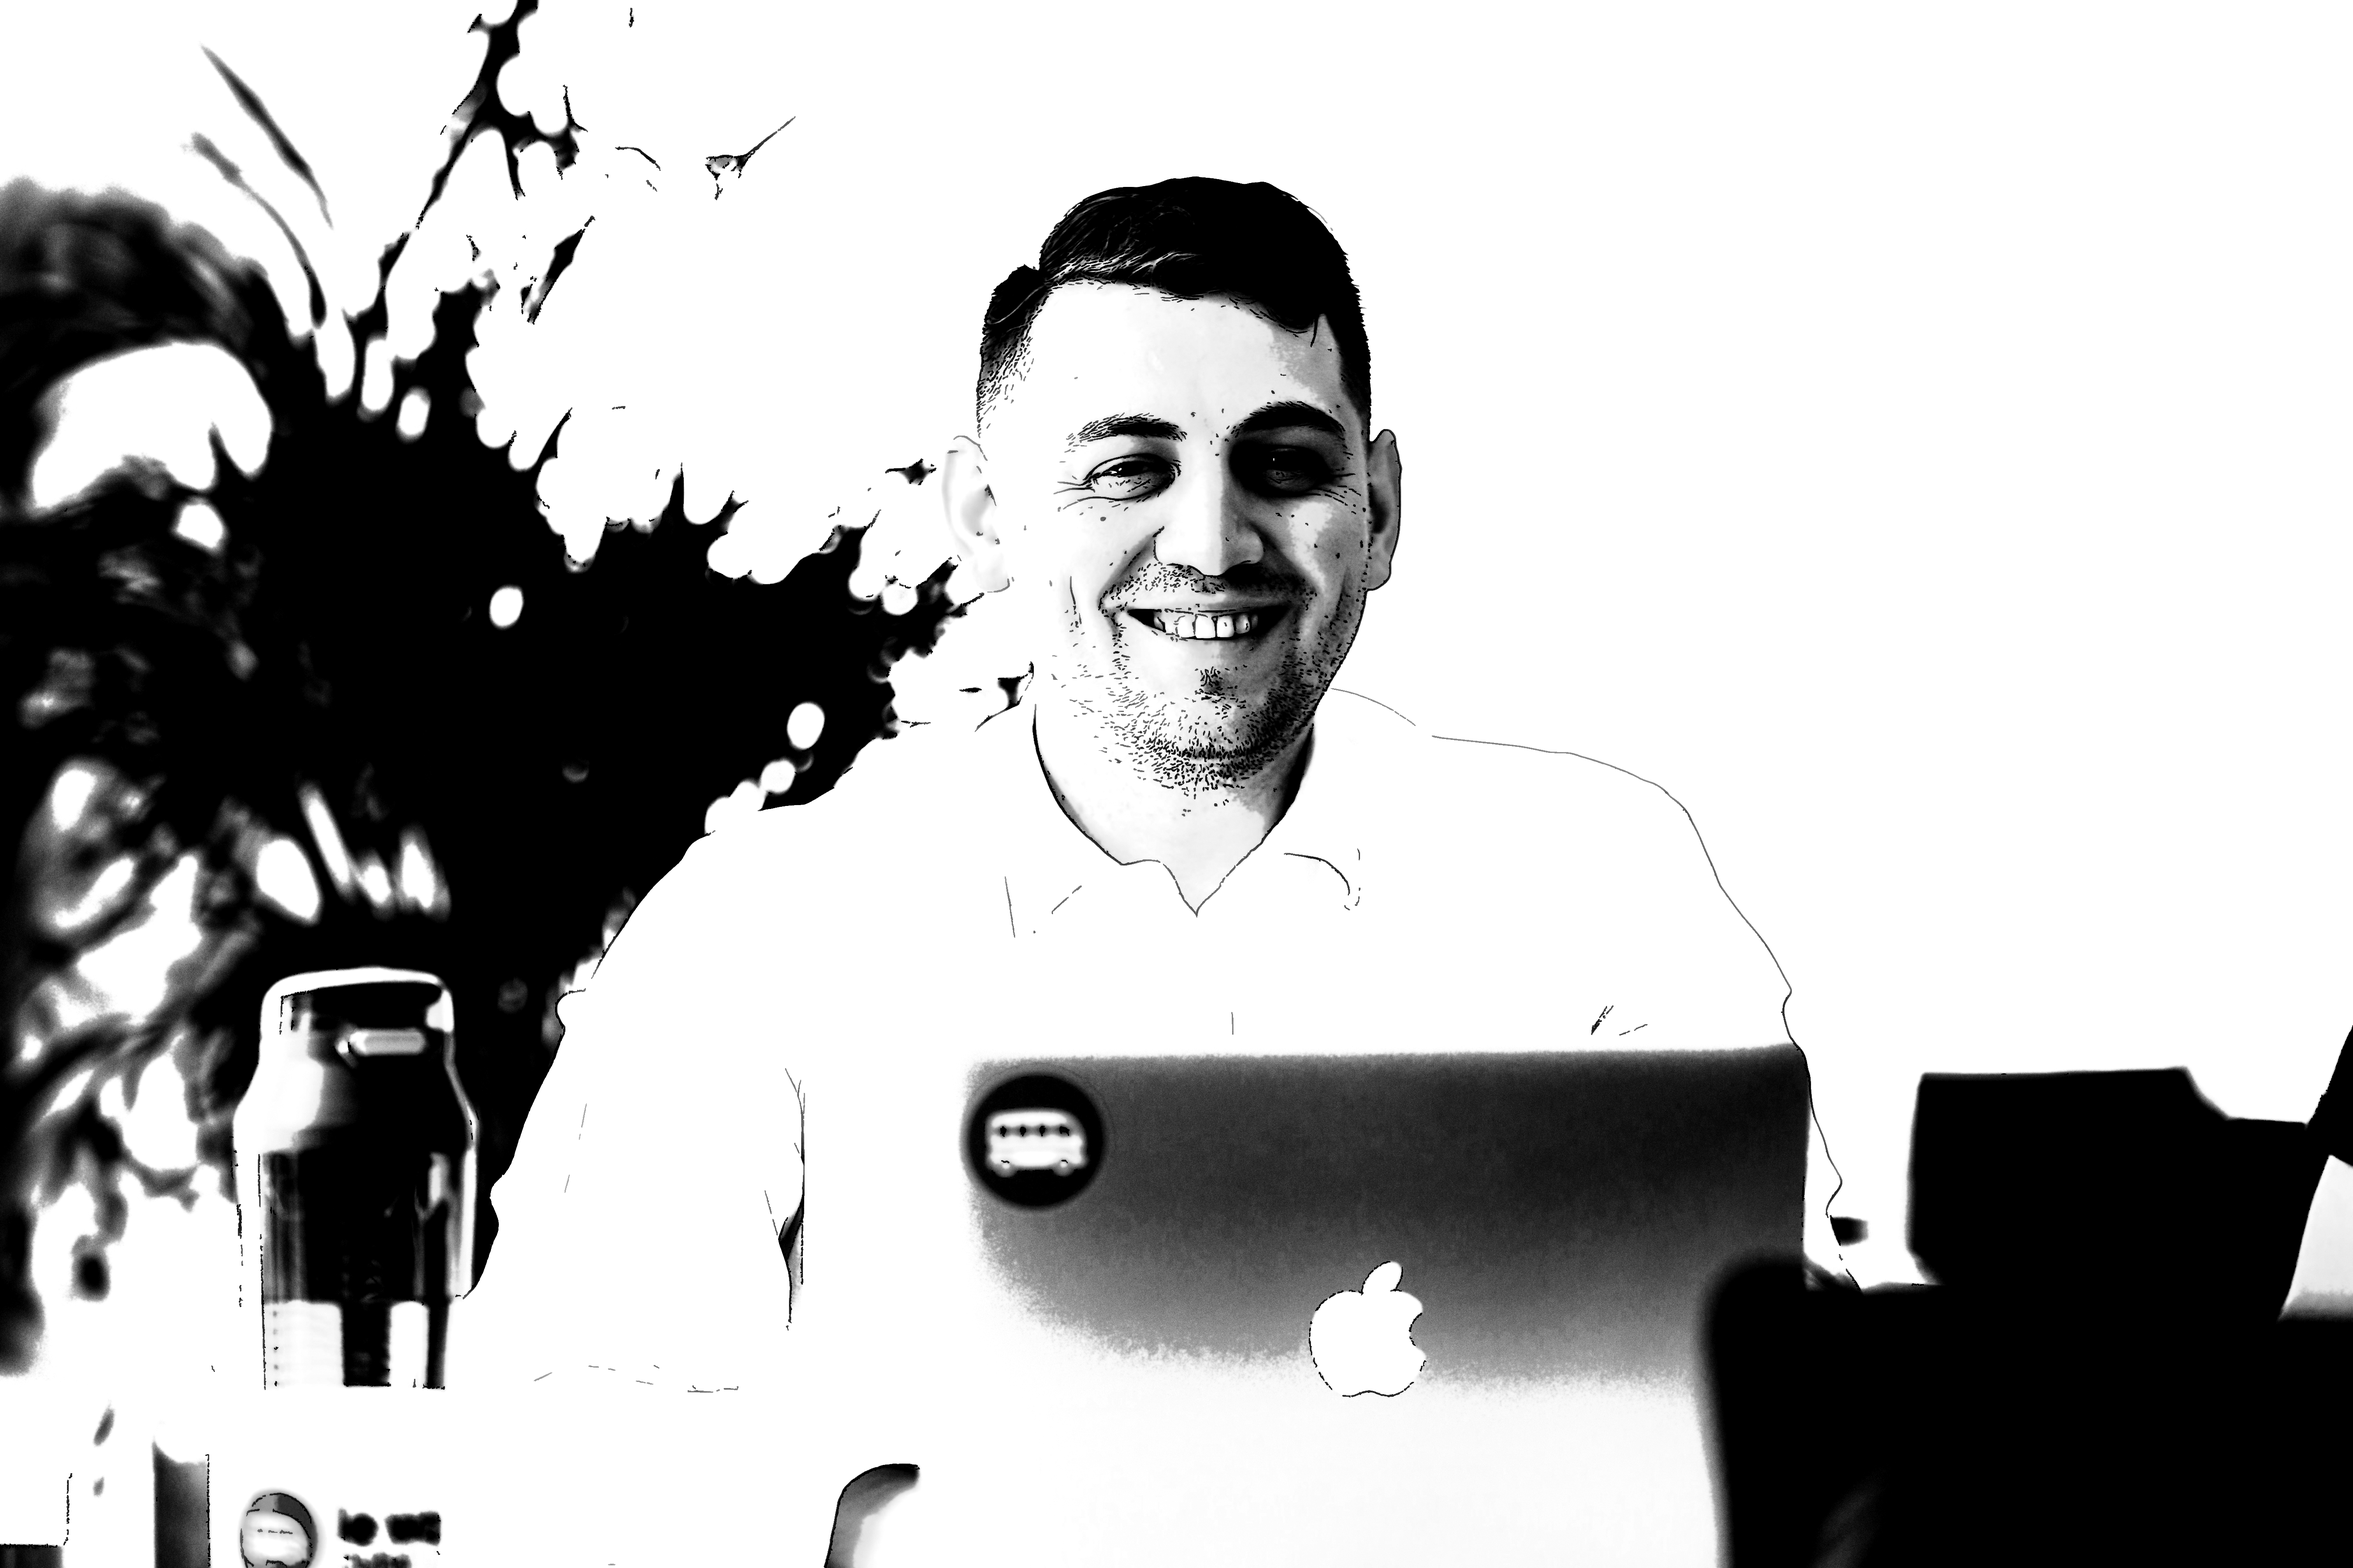
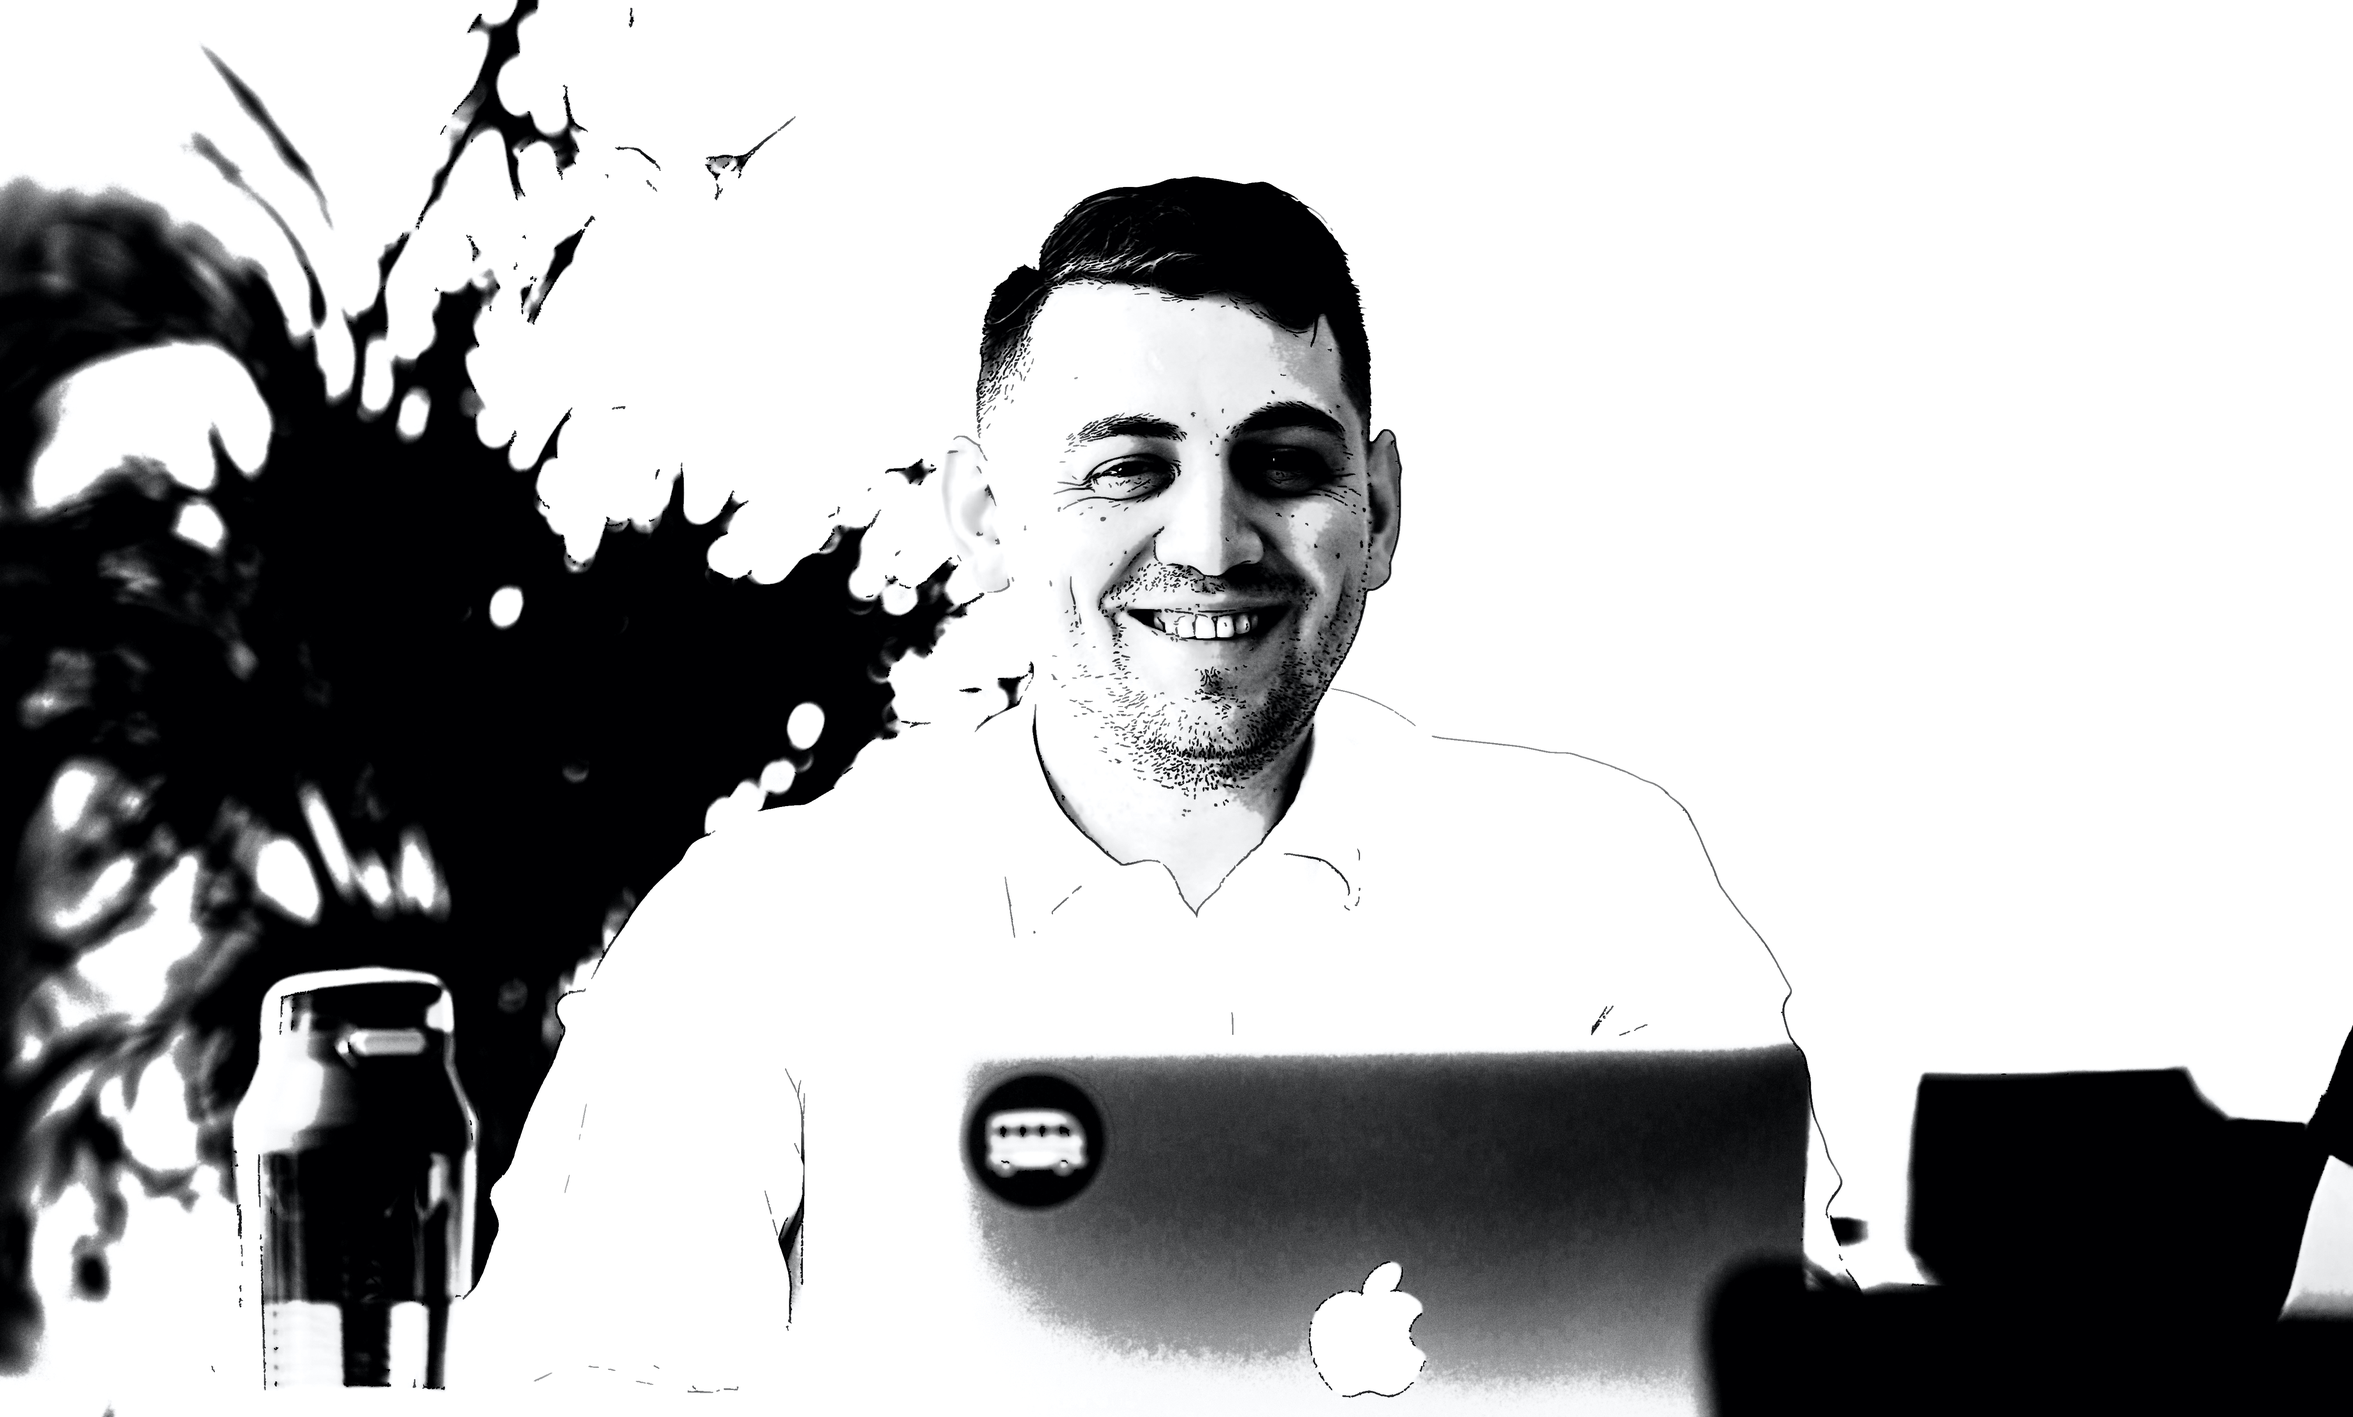
resized hero section background image and adjusted height of hero-content @media

diff --git a/src/components/HeroSection.css b/src/components/HeroSection.css
@@ -1,23 +1,31 @@
 
 
 .hero-container {
-  background: url('../images/dots.svg') center center/cover no-repeat;
+  /*background: url('../images/alex-sketcher.jpeg') center center/cover no-repeat;*/
+  background-image:
+    linear-gradient(to bottom, rgb(122 154 151 / 52%), rgb(131 134 134 / 50%)),
+    url('../images/alex-sketcher.jpeg');
+  background-size: contain, cover;
+  background-position: center;
+  background-repeat: no-repeat;
   height: 100vh;
   width: 100%;
   display: flex;
   flex-direction: column;
   justify-content: center;
-  align-items: center;
   box-shadow: inset 0 0 0 1700px rgb(27 94 101 / 42%);
   object-fit: contain;
   word-spacing: 0.2rem;
 }
 
+
 .hero-container > h1 {
   color: #fff;
   font-size: 65px;
-  margin-top: -100px;
+  margin-top: 30vh;
   text-shadow: 2px 2px #15131496;
+  margin-left: 7%;
+
 }
 
 .hero-container > p {
@@ -27,15 +35,17 @@
   font-family: 'Trebuchet MS', 'Lucida Sans Unicode', 'Lucida Grande',
     'Lucida Sans', Arial, sans-serif;
   text-shadow: 2px 2px #15131496;
+  margin-left: 11%;
 }
 
 .hero-btns {
   margin-top: 32px;
+  margin-left: 12%;
 }
 
 .hero-btns a {
-  color: rgb(14 22 23);
-  text-shadow: 1px 1px #c8ecec;
+  color: var(--primary);
+  text-shadow: 1px 1px #0a282b;
   cursor: pointer;
   text-decoration: none;
 }
@@ -49,9 +59,9 @@
 }
 
 .btn:hover > .fa-arrow-alt-circle-down {
-  transform: translateY(10%);
-  transition: all 0.4s ease-in-out;
-  opacity: 0.8;
+  transform: rotateZ(180deg) rotateX(180deg);
+  transition: all 0.4s ease-in;
+  text-shadow: none;
 }
 
 
@@ -65,7 +75,7 @@
 @media screen and (max-width: 768px) {
   .hero-container > h1 {
     font-size: 50px;
-    margin-top: -100px;
+    margin-top: 40vh;
   }
 
   .hero-container > p {

diff --git a/src/components/HeroSection.js b/src/components/HeroSection.js
@@ -9,24 +9,24 @@ import myPdf from '../images/CV-ILIESI_ALEXANDRU.pdf';
 function HeroSection() {
   return (
     <div className='hero-container' id='home'>
-      <h1>Hello, I'm Alex</h1>
-      <p>Software developer</p>
-      <div className='hero-btns'>
-         <Row>
-            <Col md={{ size: 8, offset: 2 }}>
-              <div >
-                <a
-                  download={myPdf}
-                  href={myPdf}
-                  className="btn btn--outline btn--medium"
-                >
-                  Download Resume
-                <i className="far fa-arrow-alt-circle-down"></i>
-                </a>
-              </div>
-            </Col>
-          </Row>
-      </div>
+        <h1>Hello, I'm Alex</h1>
+        <p>Software developer</p>
+        <div className='hero-btns'>
+           <Row>
+              <Col md={{ size: 8, offset: 2 }}>
+                <div >
+                  <a
+                    download={myPdf}
+                    href={myPdf}
+                    className="btn btn--outline btn--medium"
+                  >
+                    Download Resume
+                  <i className="far fa-arrow-alt-circle-down"></i>
+                  </a>
+                </div>
+              </Col>
+            </Row>
+        </div>
     </div>
   );
 }
